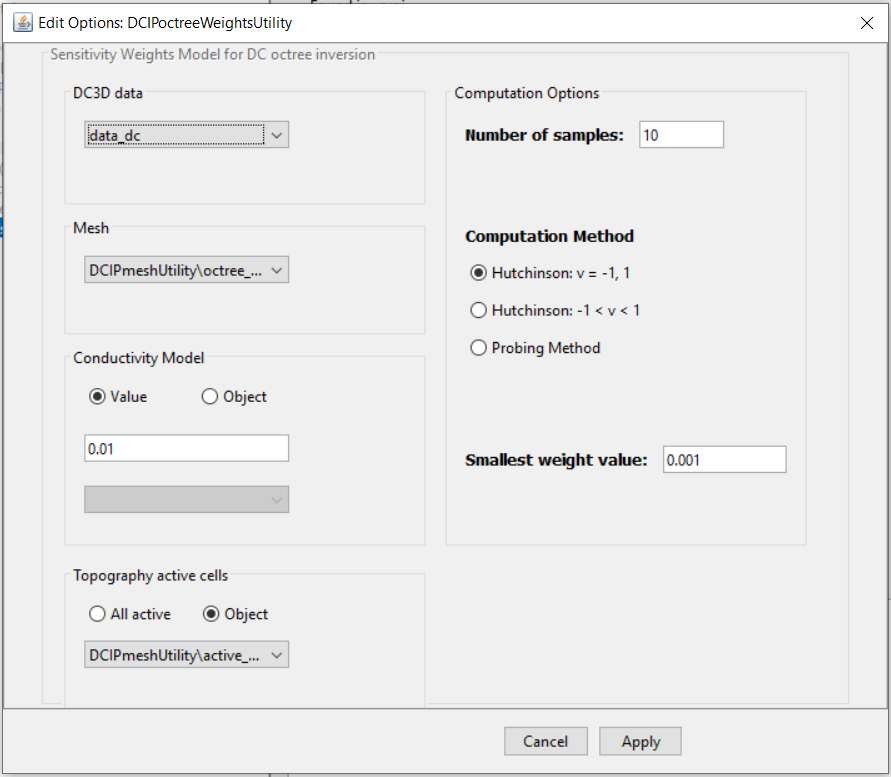
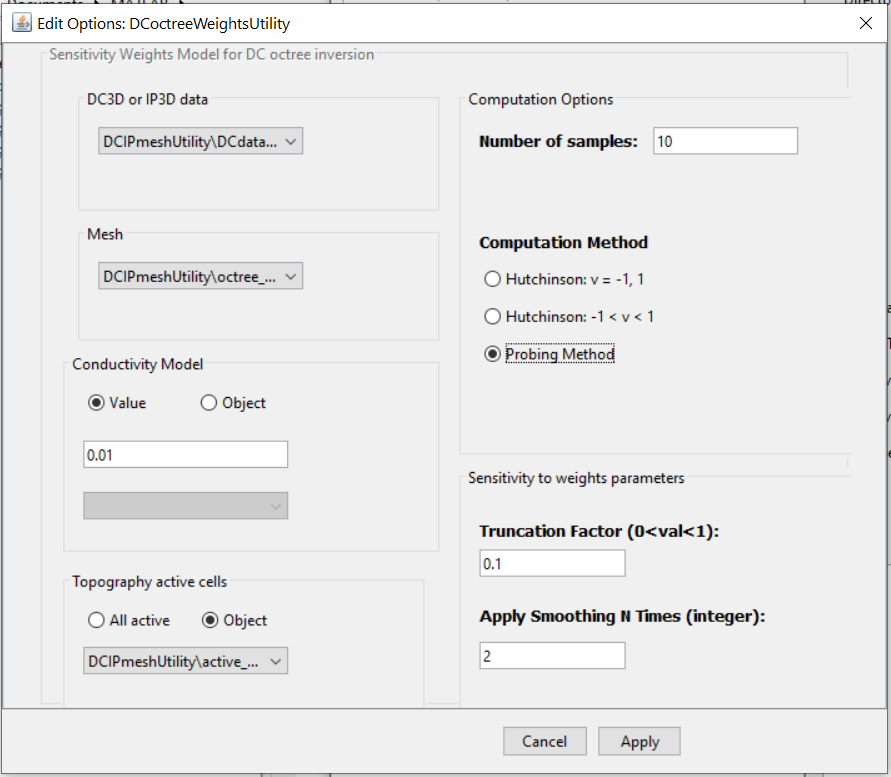
Starting octree inversion

diff --git a/content/comprehensive_workflow/dcip/6_batch_2D.rst b/content/comprehensive_workflow/dcip/6_batch_2D.rst
@@ -17,7 +17,7 @@ Defining an Inversion Template
 Here, we define the parameters that will be used when inverting each survey line. To create the template:
 
     - :ref:`Create a new 2D DC inversion object <createDCIPInv>` and select a working directory when prompted. It is important that you create a new inversion object for this.
-    - Use :ref:`edit options <invEditOptions_dcip2d>` to set the parameters for the inversion. For the tutorial data, we used the :ref:`same parameters as before <comprehensive_workflow_dcip_4_DC>`.
+    - Use :ref:`edit options <invEditOptions_dcip2d>` to set the parameters for the inversion. **For the tutorial data**, we used the :ref:`same parameters as before <comprehensive_workflow_dcip_4_DC>`, except the trade-off parameter was set using the *Discrepancy* option with a chi-factor of 1.
     - Click *Apply*. **Do not** write the files.
 
 .. note::
@@ -33,29 +33,27 @@ To set up and run the batch inversion, apply the following under the *Batch Inve
 
     - :ref:`Set inversion template <batchInversionSetTemplate>` to the 2D DC inversion object you created
     - :ref:`Set the 2D DC data objects <batchInversionSetData>` (the data object for each survey line). If applicable, GIFtools will prompt you to select the associated topography objects.
-    - :ref:`Create/Write all <batchInversionCreateInv>` 2D inversion objects. **If** sensitivity weighting are being applied, GIFtools will automatically compute the sensitivity weights. Please allows this step to finish before doing anything else.
+    - :ref:`Create/Write all <batchInversionCreateInv>` 2D inversion objects. **If** sensitivity weighting is being applied, GIFtools will automatically compute the sensitivity weights. Please allows this step to finish before doing anything else.
     - :ref:`Run inversions <batchInversionRun>`
 
 
 Results
 ^^^^^^^
 
-If the **Default** option was selected for the trade-off parameter, the user believes the target chi-factor for each survey line could be different. For each 2D inversion object, the user must:
+If the **Discrepancy** option was used, the user believes the chi-factor is the same for all survey lines. You can use functionality under the *Batch Inversion* menu to:
 
-    - Analyze the inversion results and choose a final model according to the :ref:`Analyzing 2D Inversion Results <comprehensive_workflow_dcip_5>` section of this tutorial. **For the tutorial data**, in order (lines 1-10), we chose iterations: 12, 12, 13, 12, 12, 11, 11, 10, 10 and 11.
+    - :ref:`Load the final model or the first to reach the chi-factor <batchInversionLoad>` for all 2D inversions.
 
-If the **Discrepancy** option was used and a target chi-factor was defined, you can use functionality under the *Batch Inversion* menu to:
 
-    - :ref:`Load the final model or the first to reach the target chi-factor <batchInversionLoad>` for all 2D inversions.
-
+If the **Default** option was selected for the trade-off parameter, the user believes the chi-factor for each survey line could be different. For each 2D inversion object, the user must analyze the inversion results and choose a final model according to the :ref:`Analyzing 2D Inversion Results <comprehensive_workflow_dcip_5>` section of this tutorial.
 
 
 Interpolation to 3D Mesh
 ^^^^^^^^^^^^^^^^^^^^^^^^
 
-Once you have completed the batch inversion, it is benefitial to compare the set of recovered 2D models side by side. Here, we interpolate the set of recovered 2D models onto a 3D tensor mesh. We start by creating a 3D tensor mesh. Next, we interpolate the set of 2D models onto the 3D mesh.
+Once you have completed the batch inversion, it is benefitial to compare the set of recovered 2D models side by side. You may also want to interpolate the 2D slices to approximate 3D geometries. Here, we interpolate the set of recovered 2D models onto a 3D tensor mesh. We start by creating a 3D tensor mesh on which the 2D slices can live. Next, we place the set of 2D models onto the 3D mesh. Finally, we interpolate the 2D slices to create a 3D model.
 
-**Creating the mesh:**
+**1. Creating the mesh:**
 
     - :ref:`Create 3D tensor mesh <create_mesh_3D>`
 
@@ -82,19 +80,38 @@ The set of parameters used to create a 3D mesh for the **tutorial data** is show
     Parameters used to create 3D tensor mesh.
 
 
+**2. Placing 2D slices on the 3D mesh**
+
 Once the 3D mesh has been created, select any of the *Batch Inversion* objects and:
 
     - :ref:`Merge all <batchInversionMerge>` to interpolate to 3D mesh.
 
 
-**For the tutorial data**, we see the set of recovered 2D conductivity models below. For comparison, we also show the result if *Discrepancy* and a chi-factor of 1 was used to define the trade-off parameter.
+For the tutorial data, we see the set of recovered 2D conductivity models below.
 
 
 .. figure:: images/inv_dc2d_batch.png
     :align: center
-    :width: 600
+    :width: 350
 
-    2D conductivity models with *Default* trade-off parameter and manual picking (left). 2D conductivity models with *Discrepancy* and a chi-factor of 1 (right).
+    2D conductivity models with *Discrepancy* and a chi-factor of 1.
+
+
+
+**3. Interpolate 2D slices to create 3D model**
+
+To gain insight with regards to 3D structures, you may want to interpolate the 2D slices to create the fully 3D model. To do this, you can use an inverse distance interpolation:
+
+    - :ref:`Fill no data values with inverse disctance interpolation <objectFunctionalityFillNDValue>`
+
+
+For the tutorial data, the parameters used for the interpolation and the final 3D model are shown below.
+
+.. figure:: images/inv_dc2d_batch_interp.png
+    :align: center
+    :width: 700
+
+    Interpolation parameters and interpolated 3D conductivity model for tutorial data.
 
 
 
@@ -102,15 +119,20 @@ Once the 3D mesh has been created, select any of the *Batch Inversion* objects a
 ---------------------
 
 
-The process for creating and running a 2D IP batch inversion is nearly identical to that of a 2D DC batch inversion. When prompted, the batch inversion will ask you for the associated set of 2D DC inversion objects. This is done to assign a background conductivity model for each IP inversion.
-
-**For the tutorial data**, the 5th iteration was chosen as the final model for all survey lines. The set of recovered 2D models was interpolated to the same 3D mesh. We see the set of recovered 2D chargeability models below. For comparison, we also show the result if *Discrepancy* and a chi-factor of 1 was used to define the trade-off parameter.
-
+The process for creating and running a 2D IP batch inversion is nearly identical to that of a 2D DC batch inversion. When prompted, the batch inversion will ask you for the associated set of 2D DC inversion objects. This is done to assign a background conductivity model for each IP inversion. **For the tutorial data**, we once again used the *Discrepancy* option and a chi-factor of 1 to define the trade-off parameter. The 2D slices were places on the same 3D mesh, then interpolated to obtain the 3D chargeability model.
 
 
 .. figure:: images/inv_ip2d_batch.png
     :align: center
-    :width: 600
+    :width: 350
 
-    2D chargeability models with *Default* trade-off parameter and manual picking (left). 2D chargeability models with *Discrepancy* and a chi-factor of 1 (right).
+    2D chargeability models with *Discrepancy* and a chi-factor of 1.
+
+
+.. figure:: images/inv_ip2d_batch_interp.png
+    :align: center
+    :width: 700
+
+    Interpolation parameters and interpolated 3D chargeability model for tutorial data.
+
 

diff --git a/content/comprehensive_workflow/dcip/7_octree.rst b/content/comprehensive_workflow/dcip/7_octree.rst
@@ -5,3 +5,54 @@
 OcTree Mesh Design
 ==================
 
+Here we provide a basic approach for mesh design when inverting DCIP data. Mesh design for DCIP problems depends on both the maximum and minimum electrode spacing.
+
+Here, we explain how to create an OcTree mesh based on DCIP survey geometry. We also explain the reasoning for the parameter values entered. We can create OcTree meshes from DCIP surveys with the following utility:
+
+	- :ref:`create OcTree mesh with DC/IP utilities <createDCIPoctreeMesh>`
+
+Once you have created the object, complete the following steps:
+
+	1) Set the data object corresponding to the survey
+	2) Define the mesh using *Edit Options*
+	3) Run the utility
+	4) Load results
+
+The parameters set in *Edit Options* are shown below along with reasoning for several important choices. For definitions of the parameters, consult the `DCIP octree manual <https://dcipoctree.readthedocs.io/en/latest/content/inputfiles/createOcTree.html>`__ .
+
+
+.. figure:: images/mesh_design.png
+    :align: center
+    :width: 500
+
+    Parameters used to define the mesh for the field dataset using E3DMT v2 mesh utility.
+
+
+**Minimum cell size:** The minimum cell size is determined by the minimum electrode spacing. To have sufficient accuracy, you must have at least 2.5 to 4 cells between each electrode.
+
+**Padding cell expansions:** The extent of the mesh depends on the largest electrode spacing. The thickness of the padding should be about 2-3 times the length of the largest electrode spacing.
+
+**Core region discretization:** *Thickness 1* should be used to discretize the region with the largest currents. For dipole-dipole data, this should be 30\% to 50\% the size of the largest electrode spacing. For pole-dipole or dipole-pole data, this should 75\% to 100\% the size of the largest electrode spacing. If you let *Thickness 1* be on the smaller side, make sure *Thickness 2* is equal or greater than *Thickness 1*.
+
+**Number of cells around Rx:** The number of fine mesh cells near receivers must be sufficiently large to model the electric potentials near electrodes accurately. It is important to set *RX cells #1* to be between 4 and 8.
+
+**Make polygon:** This parameter controls the horizontal extent of the core mesh region. In practice, the distance between any electrode and the horizontal edges of the core mesh region should be 2-3 times larger than the smallest electrode spacing.
+
+
+Important Comments on Topography
+--------------------------------
+
+When including real topography (not flat), the discretized surface will not match the true surface of the Earth. DCIP octree utilities remedy this issue by creating an observed data file where the electrode locations have be projected onto the surface of the discretized Earth. When loading the output from the DCIP octree utility, GIFtools will load this projected data file. You must use this file when running the inversion.
+
+It is very common to have both DC and IP data. In the case of real topography, we will need to project both DC and IP data to the Earth's surface and load the data files into GIFtools. The following is a trick for accomplishing this and create the octree mesh in a clean fashion:
+
+	1) Set the data object corresponding to the survey as the IP data object
+	2) Define the mesh using *Edit Options*
+	3) Run the utility (which creates a project IP data file)
+	4) Reset the data object corresponding to the survey as the DC data object
+	5) Run the utility again (which creates a project DC data file)
+	6) Load results (which will load everything but the projected IP data file)
+	7) Use *import* drop-down menu to import the projected IP data file
+
+
+

diff --git a/content/comprehensive_workflow/dcip/8_dc_prep.rst b/content/comprehensive_workflow/dcip/8_dc_prep.rst
@@ -2,6 +2,70 @@
 
 .. include:: <isonum.txt>
 
-DC Weights and Reference Model
-==============================
+Weights and Models for DC Inversion
+===================================
+
+In this section we demonstrate how to:
+
+	- Create a starting/reference model from the batch 2D inversion result
+	- Create near-surface interface weights
+	- Create sensitivity weights for the DC inversion
+
+
+Starting/Reference Model from Batch 2D Inversion
+------------------------------------------------
+
+In the :ref:`2D batch inversion <omprehensive_workflow_dcip_6>` section, we generated a 3D conductivity model by interpolating the set of 2D slices. If we have confidence in the structures recovered from the batch 2D inversion, we may want to use it as a starting/reference model. To do this, we must interpolate the 3D tensore model onto the :ref:`OcTree mesh we generated in the previous section <comprehensive_workflow_dcip_7>` . To accomplish this, we use:
+
+	- :ref:`Interpolate with nearest neighbour <objectFunctionalityNearest3D>`
+
+
+**For the tutorial data** , the parameters used and the OcTree model are shown below.
+
+
+.. figure:: images/mrefDC.png
+    :align: center
+    :width: 700
+
+    Interpolation parameters and reference/starting conductivity model on OcTree mesh for tutorial data.
+
+
+
+Near-Surface Interface Weighting
+--------------------------------
+
+When inverting DC data, the code has a tendency to place conductive structures near electrode locations due to the sensitivity of the data to those locations. One way to counteract this problem is to generate interface weights. By forcing lateral smoothness within the top few layers of cells, we can limit the artifacts and force the inversion to place conductive structures at the appropriate depths.
+
+    - :ref:`Create and interface weights utility <createinterfWeights>`
+    - Use :ref:`edit options <utilEditOptions>` and set the following parameters:
+
+        - set the OcTree mesh
+        - set as *log model*
+        - set topography as the active cells model
+        - set number of layers and corresponding weights (choose something exponentially decreasing. We chose 10, and 4)
+        - Face value = 1 (only matters for non-homogeneous backgrgound model)
+        - Face tolerance = 1 (only matters for non-homogeneous backgrgound model)
+
+    - :ref:`Run the utility <utilRun>`
+    - :ref:`Load results <utilLoadResults>`
+
+
+Sensitivity Weighting for DC Inversion
+--------------------------------------
+
+To counteract issues related to the sensitivity of the data with respect to cells near electrodes, you may choose to implement sensitivity weighting. To create a cell weights model for the DC inversion, do the following:
+
+    - :ref:`Create and interface weights utility <createinterfWeights>`
+    - Use :ref:`edit options <utilEditOptions>` and set the following parameters:
+
+        - set the OcTree mesh
+        - set as *log model*
+        - set topography as the active cells model
+        - set number of layers and corresponding weights (choose something exponentially decreasing. We chose 10, and 4)
+        - Face value = 1
+        - Face tolerance = 1
+
+    - :ref:`Run the utility <utilRun>`
+    - :ref:`Load results <utilLoadResults>`
+
 

diff --git a/content/objectFunctionality/model/gifModel.rst b/content/objectFunctionality/model/gifModel.rst
@@ -149,6 +149,48 @@ where *x* and *y* define the cell center location of model column **m** in the u
 |                                                               |                                                                  |
 +---------------------------------------------------------------+------------------------------------------------------------------+
 
+
+.. _objectFunctionalityNearest3D:
+
+Nearest Neighbour (3D Interpolation)
+^^^^^^^^^^^^^^^^^^^^^^^^^^^^^^^^^^^^
+
+This funcationality will apply nearest neighbour to interpolate the model from one 3D or OcTree mesh to another 3D or OcTree mesh. This functionality is accessed through:
+
+**Model** |rarr| **3D options** |rarr| **Nearest neighbour interpolation**
+
+
+.. figure:: ../../../images/modelNearestInterp.png
+    :align: center
+    :width: 400
+
+
+Important parameters for the interpolation and management of cells in the padding are as follows:
+
+    - **Air value:** The value given to all cells lying outside the active topography
+
+    - **Padding Cell Options:**
+
+        - *Nearest neighbour:* All cells within the active topography will be determined via nearest neighbour interpolation
+        - *Set padding to constant:* All active topography cells in the padding will be assigned a constant value
+        - *Decay to constant:* Cells in the padding will decay towards a background value according to the following expression
+
+
+.. math::
+    m_0 + (m_i - m_0)\, \eta^q \;\;\; \textrm{where} \;\;\; q = 1 - \bigg ( \frac{V}{V_{min}} \bigg )^{1/3}
+
+
+where :math:`m_0` is the background value, :math:`m_i` is the value if nearest neighbour was applied, :math:`0 < \eta < 1` and :math:`V` is the volume. For OcTree meshes, :math:`\eta \in` [0.8, 0.9] works well. For tensor models, :math:`\eta \sim` 0.5 works well.
+
+
+.. figure:: ../../../images/modelNearestInterp_examples.png
+    :align: center
+    :width: 400
+
+    Examples of different padding choices when input model is only defined in the core mesh region. Nearest neighbour (left). Constant (middle). Decay to constant (right).
+
+
+
 .. _objectFunctionalityAddPolyhedra:
 
 Add Rectangular Block and Polyhedra-Based Structures

diff --git a/content/objectFunctionality/fortran/editOptions.rst b/content/objectFunctionality/fortran/editOptions.rst
@@ -108,10 +108,10 @@ E3D_ver2_Tiled Mesh Utility
 
 .. _utilEditOptions_DCsensitivity:
 
-DC Octree Sensitivity Utility
------------------------------
+DC/IP Octree Sensitivity Utility
+--------------------------------
 
-Set parameters to compute approximate senstivity weights model for DC octree inversion.
+Set parameters to compute approximate senstivity weights model for DC or IP octree inversion. The utility will look at the data type to determine whether DC or IP weights are being computed.
 
 .. figure:: ../../../images/utilityDCsensitivity.png
     :align: center
@@ -120,9 +120,10 @@ Set parameters to compute approximate senstivity weights model for DC octree inv
 
 - Input Options (`thorough description of all parameters provided in DCIP octree documentation <https://dcipoctree.readthedocs.io/en/latest/content/inputfiles/sensFile.html>`_)
 
-	- *Number of samples:* This is the number of iterations for approximating the diagonals of :math:`J^T J` with Hutchinson's approach
+	- *Number of samples:* This is the number of iterations for approximating the diagonals of :math:`J^T J` with Hutchinson's or probing approach. A value of 10 is reasonable.
 
-	- *Computation method:* Choosing the random vectors for applying Hutchinson's approach
+	- *Computation method:* Choosing the random vectors for applying Hutchinson's approach or probing method.
 
-	- *Smallest weight value:* This is a truncation value for the smallest allowable weights value. A good default value is 0.001 - 0.01.
+	- *Truncation Factor:* We must apply a truncation factor due to the large dynamic range of the sensitivities. A value between 0.01 and 0.2 is good.
 
+	- *Apply Smoothing:* Artifacts related to approximating the sensitivities can negatively impact the final inversion result. To mitigate this, we 'smooth out' these artifact. This paramter specifies the number of times smoothing is applied. A value of 1-5 works well.

diff --git a/content/basicFunctionality/create/fortran/octreeUtilities.rst b/content/basicFunctionality/create/fortran/octreeUtilities.rst
@@ -80,10 +80,10 @@ Interaction with the Fortran utility program ``surface_electrodes`` can be done 
 
 .. _createDCsensitivities:
 
-Create sensitivity weights for DC octree
-----------------------------------------
+Create sensitivity weights for DC/IP octree
+-------------------------------------------
 
-Interaction with the Fortran utility program ``dcsensitivity`` can be done by creating an *sensitivityWeightsDCIP* item. This item will interact with the utility program to generate a sensisitivity weights model for DC octree inversion. To create, use the menu structure:
+Interaction with the Fortran utility program ``dcsensitivity`` can be done by creating an *sensitivityWeightsDCIP* item. This item will interact with the utility program to generate a sensisitivity weights model for DC or IP octree inversions. To create, use the menu structure:
 
 
-**Create** |rarr| **Fortran utility program** |rarr| **Octree utilities** |rarr| **Create sensitivity weights (DC)**
+**Create** |rarr| **Fortran utility program** |rarr| **Octree utilities** |rarr| **Create sensitivity weights (DC/IP)**

diff --git a/content/basicFunctionality/create/fortran/createOctree.rst b/content/basicFunctionality/create/fortran/createOctree.rst
@@ -13,6 +13,19 @@ Create octree mesh
     :align: center
     :figwidth: 100%
 
+
+
+.. _createDCIPoctreeMesh:
+
+Create an ocTree mesh from DC or IP data
+----------------------------------------
+
+Interaction with the Fortran utility program ``create_octree_mesh_dcip`` can be done by creating an *DCIPmeshUtility* item. This item will interact with the utility program to create an ocTree mesh from a DC3D or IP3D data item for the ``dcipoctree`` package. To create, use the menu structure:
+
+
+**Create** |rarr| **Fortran utility program** |rarr| **Create ocTree mesh** |rarr| **DC (and IP)**
+
+
 .. _createE3DoctreeMesh:
 
 Create an ocTree mesh from FEM data

diff --git a/content/comprehensive_workflow/dcip/11_ip_prep.rst b/content/comprehensive_workflow/dcip/11_ip_prep.rst
@@ -5,3 +5,6 @@
 IP Weights and Reference Model
 ==============================
 
+
+
+the mrefIP was sliced at an elevation of 50 m.
